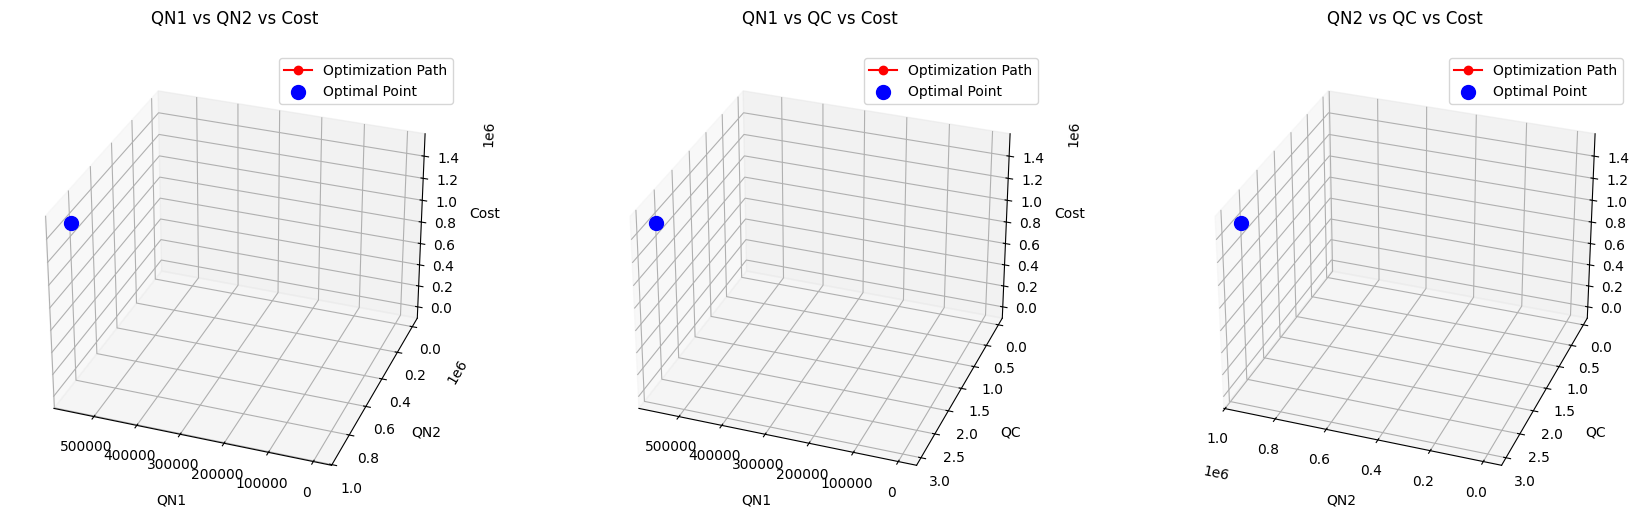
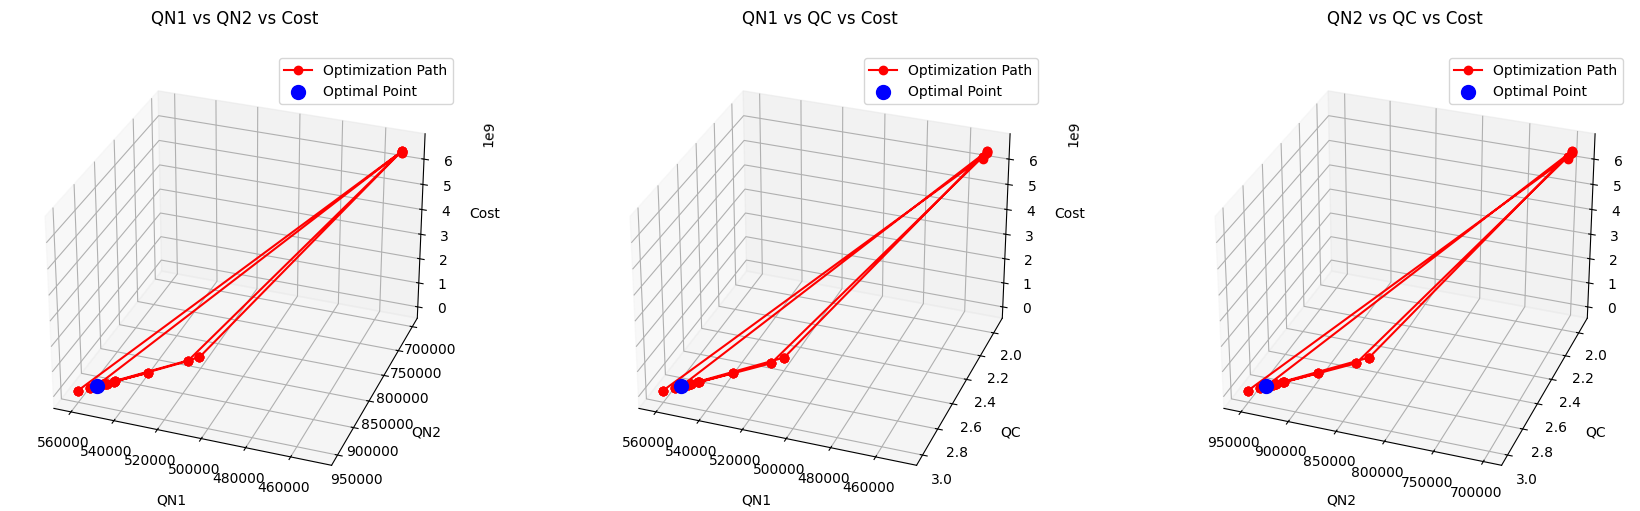
ok

diff --git a/optimize_scaled.py b/optimize_scaled.py
@@ -1,6 +1,9 @@
 import os
+import numpy as np
 import win32com.client as win32
 from scipy.optimize import minimize
+import matplotlib.pyplot as plt
+from mpl_toolkits.mplot3d import Axes3D
 
 file = r"RECAP_revK.bkp"
 aspen_Path = os.path.abspath(file)
@@ -12,16 +15,30 @@ print('Connected!')
 Application.InitFromArchive2(aspen_Path)
 Application.visible = 0
 
+# Create and open log file
+script_name = os.path.splitext(os.path.basename(__file__))[0]
+log_file_name = script_name + '.log'
+log_file_path = os.path.join(os.getcwd(), log_file_name)
+log_file = open(log_file_path, 'w')
+
 # Initial guess
 x0 = [560000, 950000, 3]
-
-# Bounds
-bounds = [(520000, 600000), (900000, 1200000), (1,5)]
 
 # Scaling factors
 scale_factors = [1e5, 1e5, 1]  # Scaling for QN1, QN2, QC
 
-def simulate(x_scaled):
+# Bounds
+bounds = [(450000, 600000), (700000, 1200000), (1,5)]
+
+# Lists to store non-scaled x values and corresponding objective function values
+x_values = []
+objective_values = []
+
+def log_message(message):
+    log_file.write(message + '\n')
+    print(message)
+
+def simulate(x_scaled, print_temperature: bool = False):
     x = [x_scaled[0] * scale_factors[0], x_scaled[1] * scale_factors[1], x_scaled[2] * scale_factors[2]]
     QN1, QN2, QC = x
     Application.Tree.FindNode(r"\Data\Blocks\N-640\Input\QN").Value = QN1
@@ -30,18 +47,26 @@ def simulate(x_scaled):
     Application.Engine.Run2()
     cH2S = Application.Tree.FindNode(r"\Data\Streams\AGUAR1\Output\MOLEFRAC\MIXED\H2S").Value
     cNH3 = Application.Tree.FindNode(r"\Data\Streams\AGUAR1\Output\MOLEFRAC\MIXED\NH3").Value
-    cH2S_ppm = cH2S*1E6
-    cNH3_ppm = cNH3*1E6
+    cH2S_ppm = cH2S * 1E6
+    cNH3_ppm = cNH3 * 1E6
     y = cH2S_ppm, cNH3_ppm
-    print(f"Simulating with QN1: {round(QN1,2)}, QN2: {round(QN2,2)}, QC: {round(QC,2)} -> H2S: {round(cH2S_ppm,2)}, NH3: {round(cNH3_ppm,2)}")
-    total_cost = QN1 + QN2 + QC
-    print(f"Total Cost: {total_cost}")
+    message = f"Simulating with QN1: {round(QN1,0)}, QN2: {round(QN2,0)}, QC: {round(QC,2)} -> H2S: {round(cH2S_ppm,3)}, NH3: {round(cNH3_ppm,3)}"
+    log_message(message)
+    if print_temperature:
+        T_bottom_N640 = Application.Tree.FindNode(r"\Data\Blocks\N-640\Output\B_TEMP\5").Value
+        T_bottom_N641 = Application.Tree.FindNode(r"\Data\Blocks\N-641\Output\B_TEMP\6").Value
+        T_top_N641 = Application.Tree.FindNode(r"\Data\Blocks\N-641\Output\B_TEMP\2").Value
+        log_message(f"Temperatures: {T_bottom_N640}, {T_bottom_N641}, {T_top_N641}")
     return y
 
 # Objective function to minimize (with scaling)
 def cost(x_scaled):
     x = [x_scaled[0] * scale_factors[0], x_scaled[1] * scale_factors[1], x_scaled[2] * scale_factors[2]]
     total_cost = x[0] + x[1] + x[2]
+
+    # Store the non-scaled x values and total cost
+    x_values.append(x)  # Store non-scaled x
+    objective_values.append(total_cost)  # Store objective function value
     return total_cost
 
 # Constraint 1 (with scaling)
@@ -61,26 +86,89 @@ x0_scaled = [x0[i] / scale_factors[i] for i in range(3)]
 bounds_scaled = [(low / scale_factors[i], high / scale_factors[i]) for i, (low, high) in enumerate(bounds)]
 
 # Constraints as a dictionary
-constraints = [{'type': 'ineq', 'fun': constraint1}]
-constraints = [{'type': 'ineq', 'fun': constraint2}]
+constraints = [{'type': 'ineq', 'fun': constraint1}, {'type': 'ineq', 'fun': constraint2}]
 
-# Solving the optimization problem with SLSQP
-#result = minimize(cost, x0_scaled, method='SLSQP', bounds=bounds_scaled, constraints=constraints, options={'ftol': 1e-5})
-result = minimize(cost, x0_scaled, method='trust-constr', bounds=bounds_scaled, constraints=constraints)
+# Solving the optimization problem
+result = minimize(cost, x0_scaled, method='SLSQP', bounds=bounds_scaled, constraints=constraints, options={'ftol': 1e-6})
+# result = minimize(cost, x0_scaled, method='trust-constr', bounds=bounds_scaled, constraints=constraints)
 
 # Rescale the results
 opt_scaled = result.x
 opt = [opt_scaled[i] * scale_factors[i] for i in range(3)]
 
 # Output results
-
-# Output results
-opt = result.x
 cost_min = result.fun
 num_iterations = result.nit
 num_function_evals = result.nfev
 
-print('Optimal values: ', opt)
-print('Minimum cost: ', cost_min)
-print('Number of iterations: ', num_iterations)
-print('Number of objective function evaluations: ', num_function_evals)
+log_message(f'Optimal values: {opt}')
+log_message(f'Minimum cost: {cost_min}')
+log_message(f'Number of iterations: {num_iterations}')
+log_message(f'Number of function evaluations: {num_function_evals}')
+
+# Final simulation with optimal values
+simulate(opt_scaled, print_temperature=True)
+
+# Close log file
+log_file.close()
+
+# Convert x_values to a format that can be plotted (split QN1, QN2, QC)
+QN1_values = [x[0] for x in x_values]
+QN2_values = [x[1] for x in x_values]
+QC_values = [x[2] for x in x_values]
+
+# Create a single figure with 3 subplots
+fig = plt.figure(figsize=(18, 6))
+
+# Custom angles for the plots
+elev_angle = 30 # Elevation angle (default is 30 degrees)
+azim_angle = 110 # Azimuth angle (default is 120 degrees)
+
+# Padding value between axis tick values and axis titles
+axis_labelpad = 10
+
+# Plot 1: QN1 vs QN2 vs Objective Function
+ax1 = fig.add_subplot(131, projection='3d')
+ax1.plot(QN1_values, QN2_values, objective_values, color='red', linestyle='-', marker='o', label='Optimization Path')
+ax1.scatter(opt[0], opt[1], cost_min, color='blue', s=100, label='Optimal Point')
+ax1.set_xlabel('QN1', labelpad=axis_labelpad)
+ax1.set_ylabel('QN2', labelpad=axis_labelpad)
+ax1.set_zlabel('Cost', labelpad=axis_labelpad)
+ax1.set_title('QN1 vs QN2 vs Cost', pad=20)  # Add padding to title
+ax1.view_init(elev=elev_angle, azim=azim_angle)  # Set custom view angles
+ax1.legend()
+
+# Plot 2: QN1 vs QC vs Objective Function
+ax2 = fig.add_subplot(132, projection='3d')
+ax2.plot(QN1_values, QC_values, objective_values, color='red', linestyle='-', marker='o', label='Optimization Path')
+ax2.scatter(opt[0], opt[2], cost_min, color='blue', s=100, label='Optimal Point')
+ax2.set_xlabel('QN1', labelpad=axis_labelpad)
+ax2.set_ylabel('QC', labelpad=axis_labelpad)
+ax2.set_zlabel('Cost', labelpad=axis_labelpad)
+ax2.set_title('QN1 vs QC vs Cost', pad=20)  # Add padding to title
+ax2.view_init(elev=elev_angle, azim=azim_angle)  # Set custom view angles
+ax2.legend()
+
+# Plot 3: QN2 vs QC vs Objective Function
+ax3 = fig.add_subplot(133, projection='3d')
+ax3.plot(QN2_values, QC_values, objective_values, color='red', linestyle='-', marker='o', label='Optimization Path')
+ax3.scatter(opt[1], opt[2], cost_min, color='blue', s=100, label='Optimal Point')
+ax3.set_xlabel('QN2', labelpad=axis_labelpad)
+ax3.set_ylabel('QC', labelpad=axis_labelpad)
+ax3.set_zlabel('Cost', labelpad=axis_labelpad)
+ax3.set_title('QN2 vs QC vs Cost', pad=20)  # Add padding to title
+ax3.view_init(elev=elev_angle, azim=azim_angle)  # Set custom view angles
+ax3.legend()
+
+# Adjust the overall layout with margins to avoid trimming
+plt.subplots_adjust(left=0.05, right=0.95, top=0.90, bottom=0.10, wspace=0.3)
+
+# Save the combined figure with the script name
+figure_name = script_name + '_3d_plots.png'
+figure_path = os.path.join(os.getcwd(), figure_name)
+plt.savefig(figure_path, bbox_inches='tight')  # Ensure everything fits in the saved image
+
+# Show the figure (optional)
+plt.show()
+
+print(f'3D plots saved as: {figure_path}')

diff --git a/optimize_L-BFGS-B.py b/optimize_L-BFGS-B.py
@@ -72,7 +72,13 @@ def cost_with_penalty(x_scaled):
         penalty += (cNH3_ppm - 15)**2  # Penalty for NH3 violation
     
     # Total objective function is the cost plus penalties
-    return total_cost + penalty * 1e6  # Scaling factor for penalties
+    total_cost_with_penalty = total_cost + penalty * 1e6
+
+    # Store the non-scaled x values and total cost with penalty
+    x_values.append(x)  # Store non-scaled x values
+    objective_values.append(total_cost_with_penalty)  # Store objective function value with penalty
+
+    return total_cost_with_penalty  # Scaling factor for penalties
 
 # Initial guess with scaling
 x0_scaled = [x0[i] / scale_factors[i] for i in range(3)]
